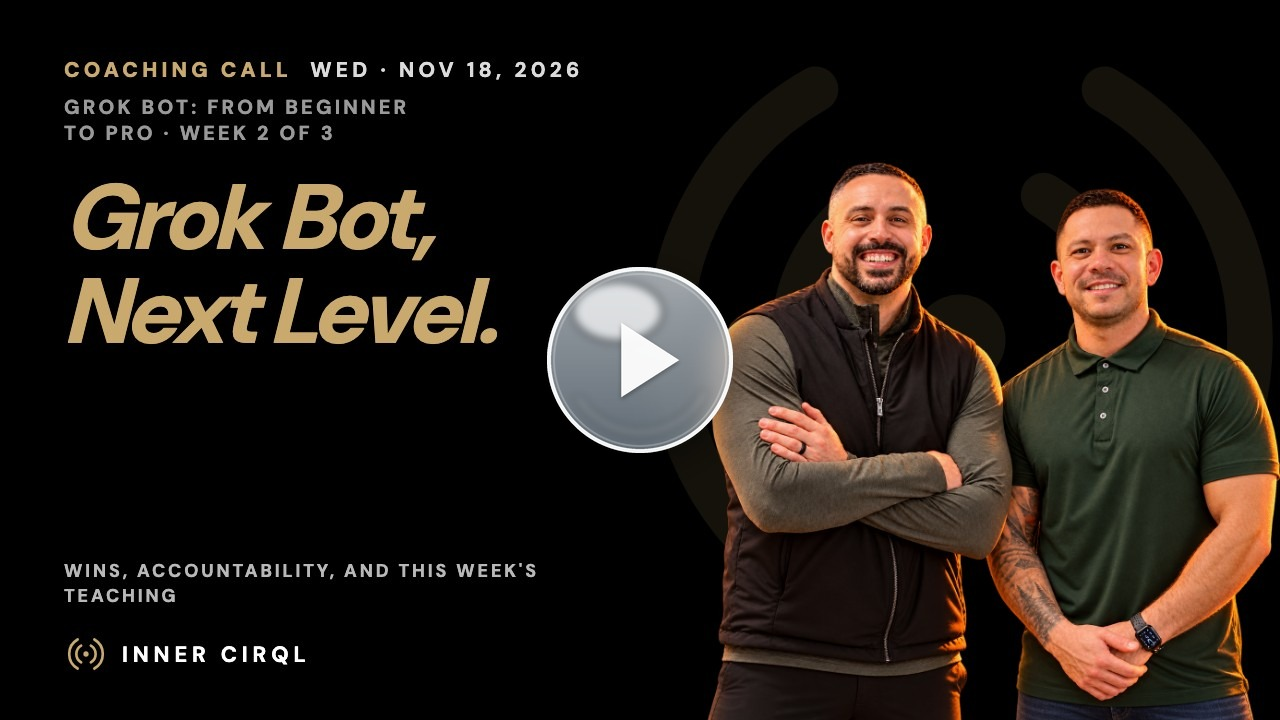
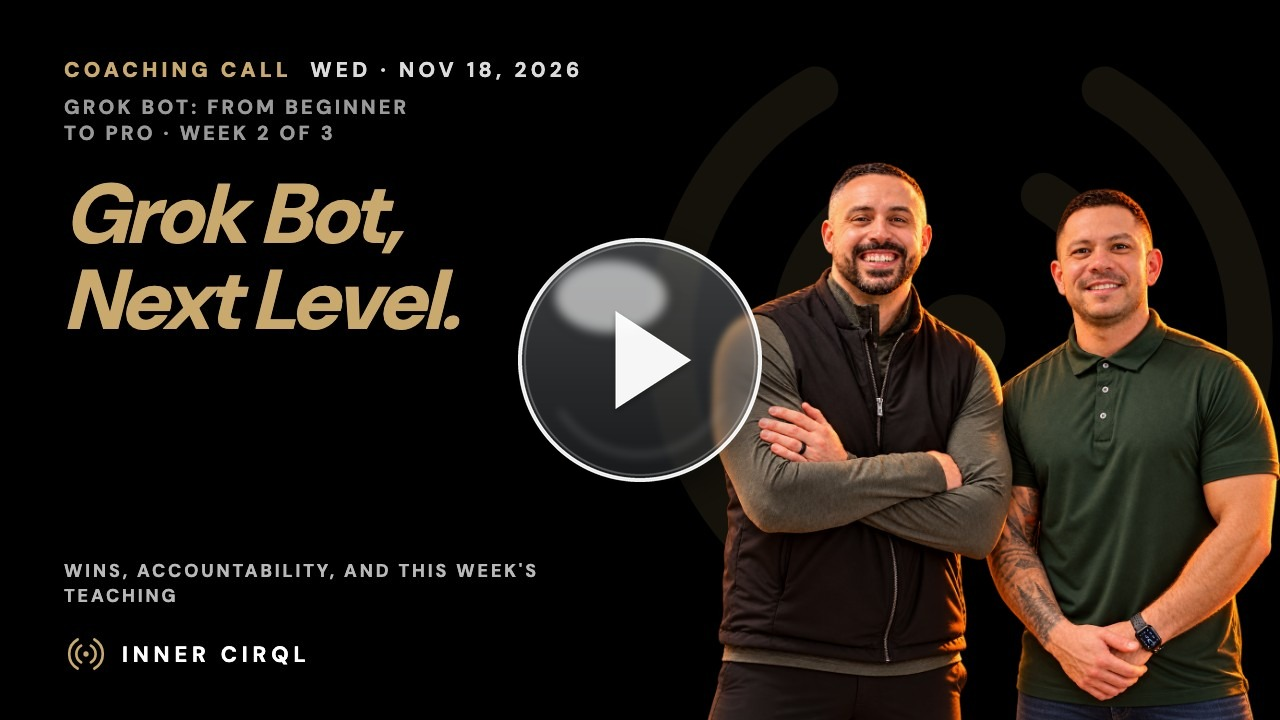
Training: retitle Nov 18 coaching call (Grok Bot: From Beginner to Pro · Grok Bot, next level, week 2 of 3) + thumbnail

Changed region(s): [[0.0312, 0.2444, 0.5938, 0.6722]]

diff --git a/training/index.html b/training/index.html
@@ -94,6 +94,26 @@ window.LIBRARY = {
   ],
   "items": [
     {
+      "id": "v-2026-11-18",
+      "date": "2026-11-18",
+      "dateLabel": "November 18, 2026",
+      "series": "grok-bot-from-beginner-to-pro",
+      "week": 2,
+      "name": "Grok Bot, next level, week 2 of 3",
+      "title": "Grok Bot: From Beginner to Pro · Grok Bot, next level, week 2 of 3",
+      "headline": [
+        "Grok Bot,",
+        "Next Level."
+      ],
+      "sub": "Grok Bot: From Beginner to Pro · Week 2 of 3",
+      "desc": "Grok Bot: From Beginner to Pro: Grok Bot, next level, week 2 of 3. Wins, accountability, and the teaching segment, edited replay.",
+      "href": "https://coach.theinnercirql.com/2026-11-18/",
+      "pdf": null,
+      "slides": null,
+      "embed": "https://www.youtube.com/embed/sRHgkFaN35s?rel=0&modestbranding=1",
+      "thumb": "/assets/thumbs/nov-18-call.jpg?v=29920154"
+    },
+    {
       "id": "v-2026-11-11",
       "date": "2026-11-11",
       "dateLabel": "November 11, 2026",
@@ -532,26 +552,6 @@ window.LIBRARY = {
       "slides": null,
       "embed": "https://www.youtube.com/embed/eMiOeAI9R4w?rel=0&modestbranding=1",
       "thumb": "/assets/thumbs/may-27-call.jpg?v=29920141"
-    },
-    {
-      "id": "v-2026-11-18",
-      "date": "2026-11-18",
-      "dateLabel": "November 18, 2026",
-      "series": "grok-bot-from-beginner-to-pro",
-      "week": 2,
-      "name": "Grok Bot, next level, week 2 of 3",
-      "title": "Grok Bot: From Beginner to Pro · Grok Bot, next level, week 2 of 3",
-      "headline": [
-        "Grok Bot,",
-        "Next Level."
-      ],
-      "sub": "Grok Bot: From Beginner to Pro · Week 2 of 3",
-      "desc": "Grok Bot: From Beginner to Pro: Grok Bot, next level, week 2 of 3. Wins, accountability, and the teaching segment, edited replay.",
-      "href": "https://coach.theinnercirql.com/2026-11-18/",
-      "pdf": null,
-      "slides": null,
-      "embed": "https://www.youtube.com/embed/sRHgkFaN35s?rel=0&modestbranding=1",
-      "thumb": "/assets/thumbs/nov-18-call.jpg?v=29920131"
     },
     {
       "id": "t-become-a-listing-magnet",
